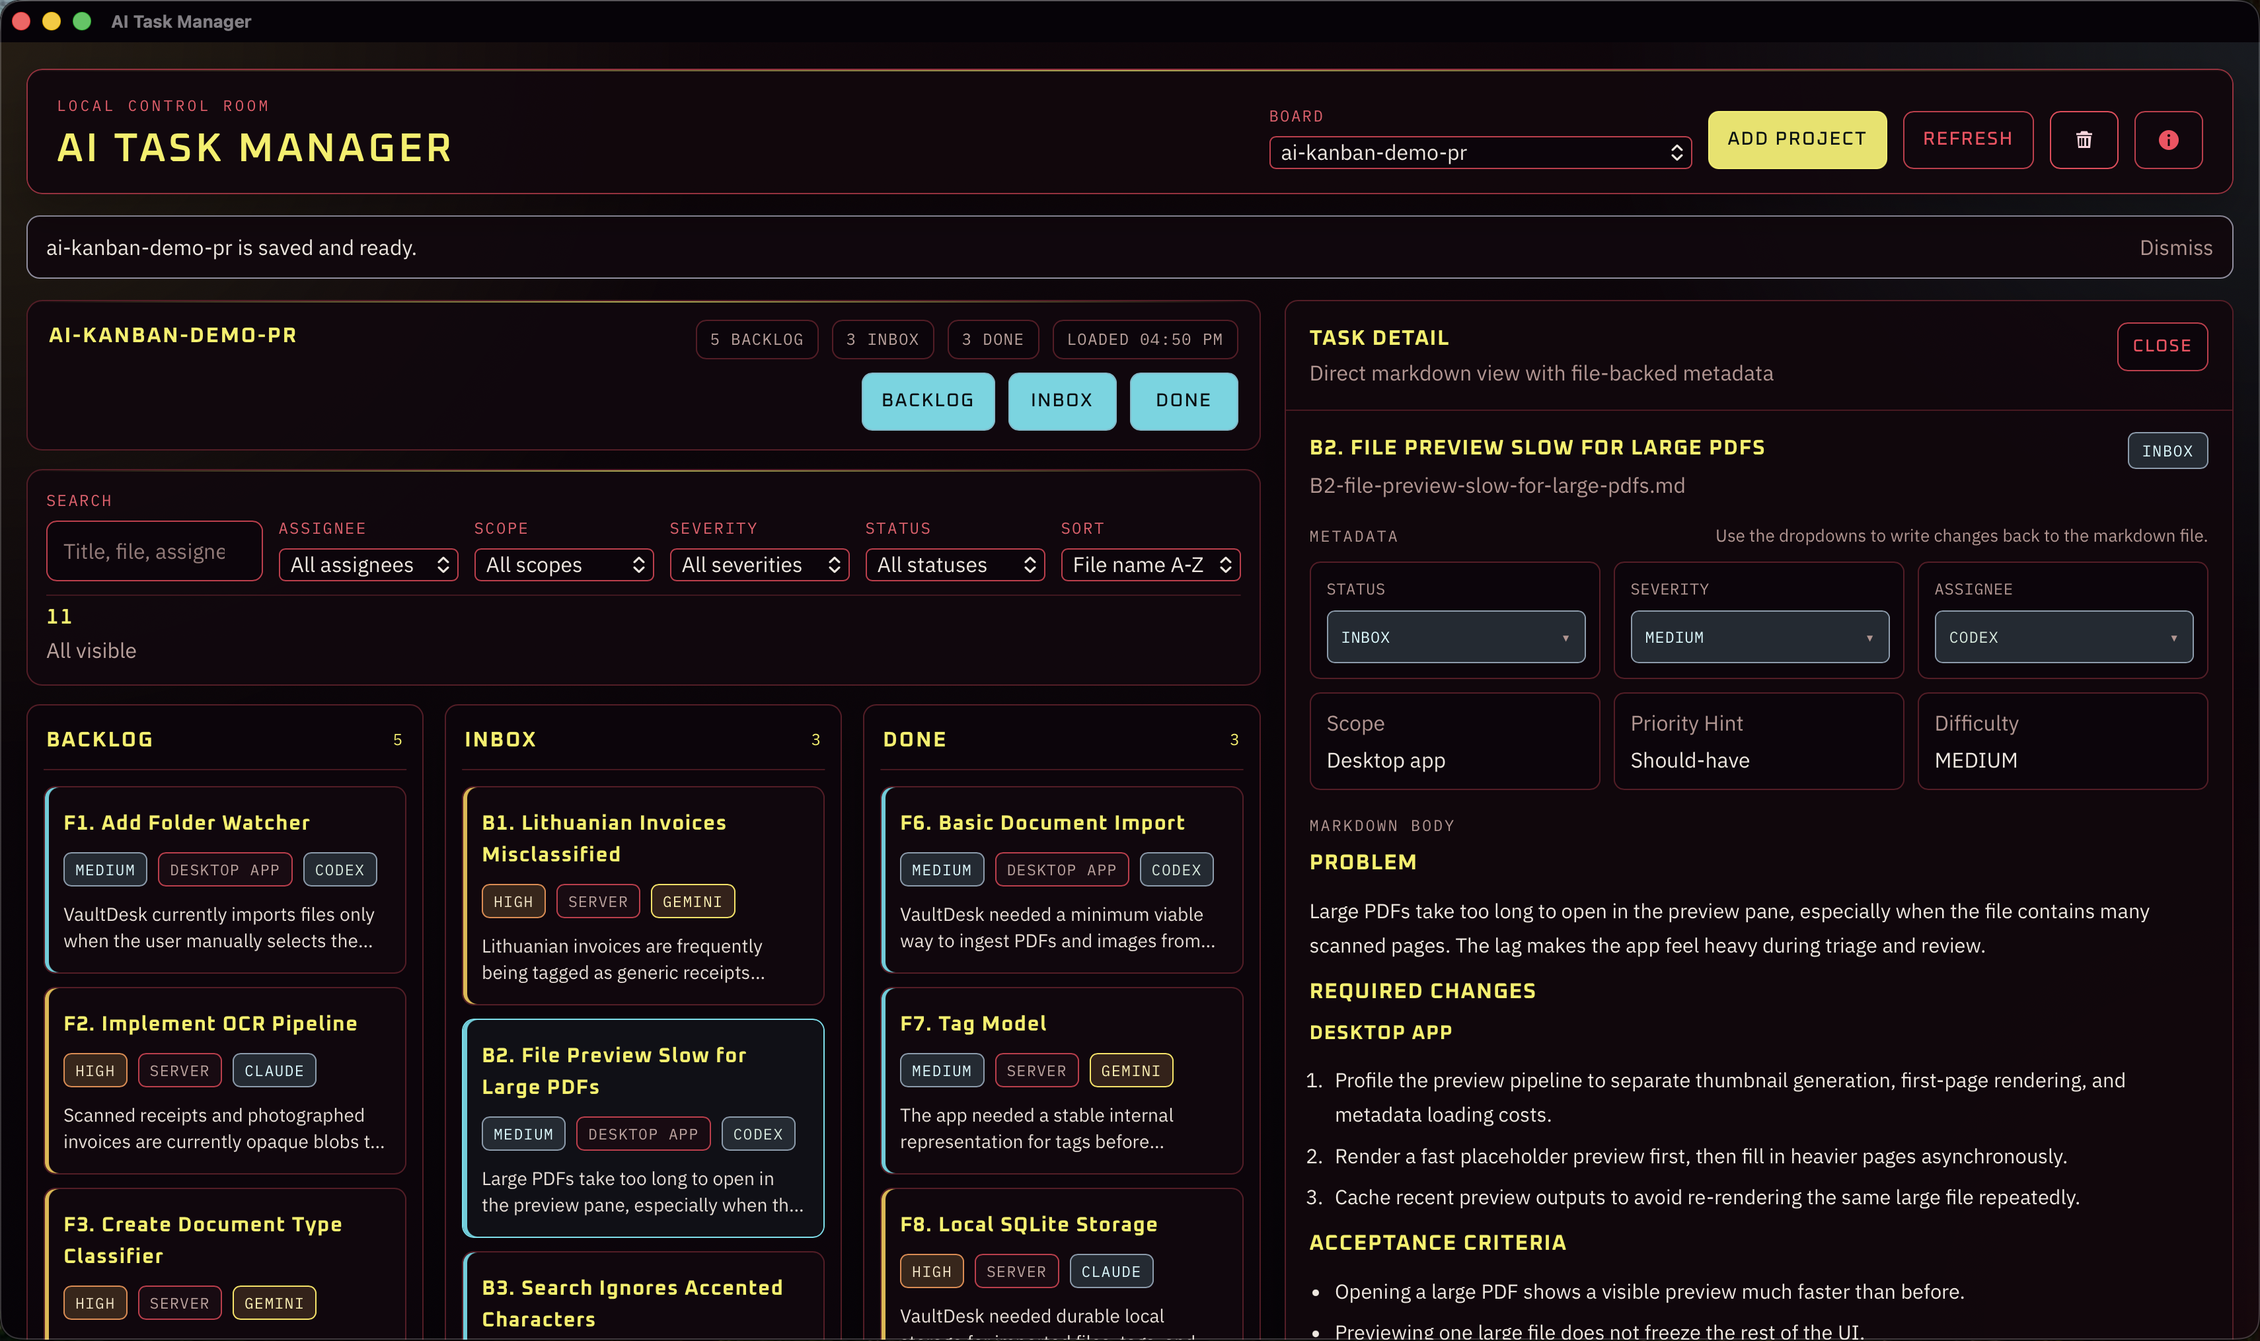
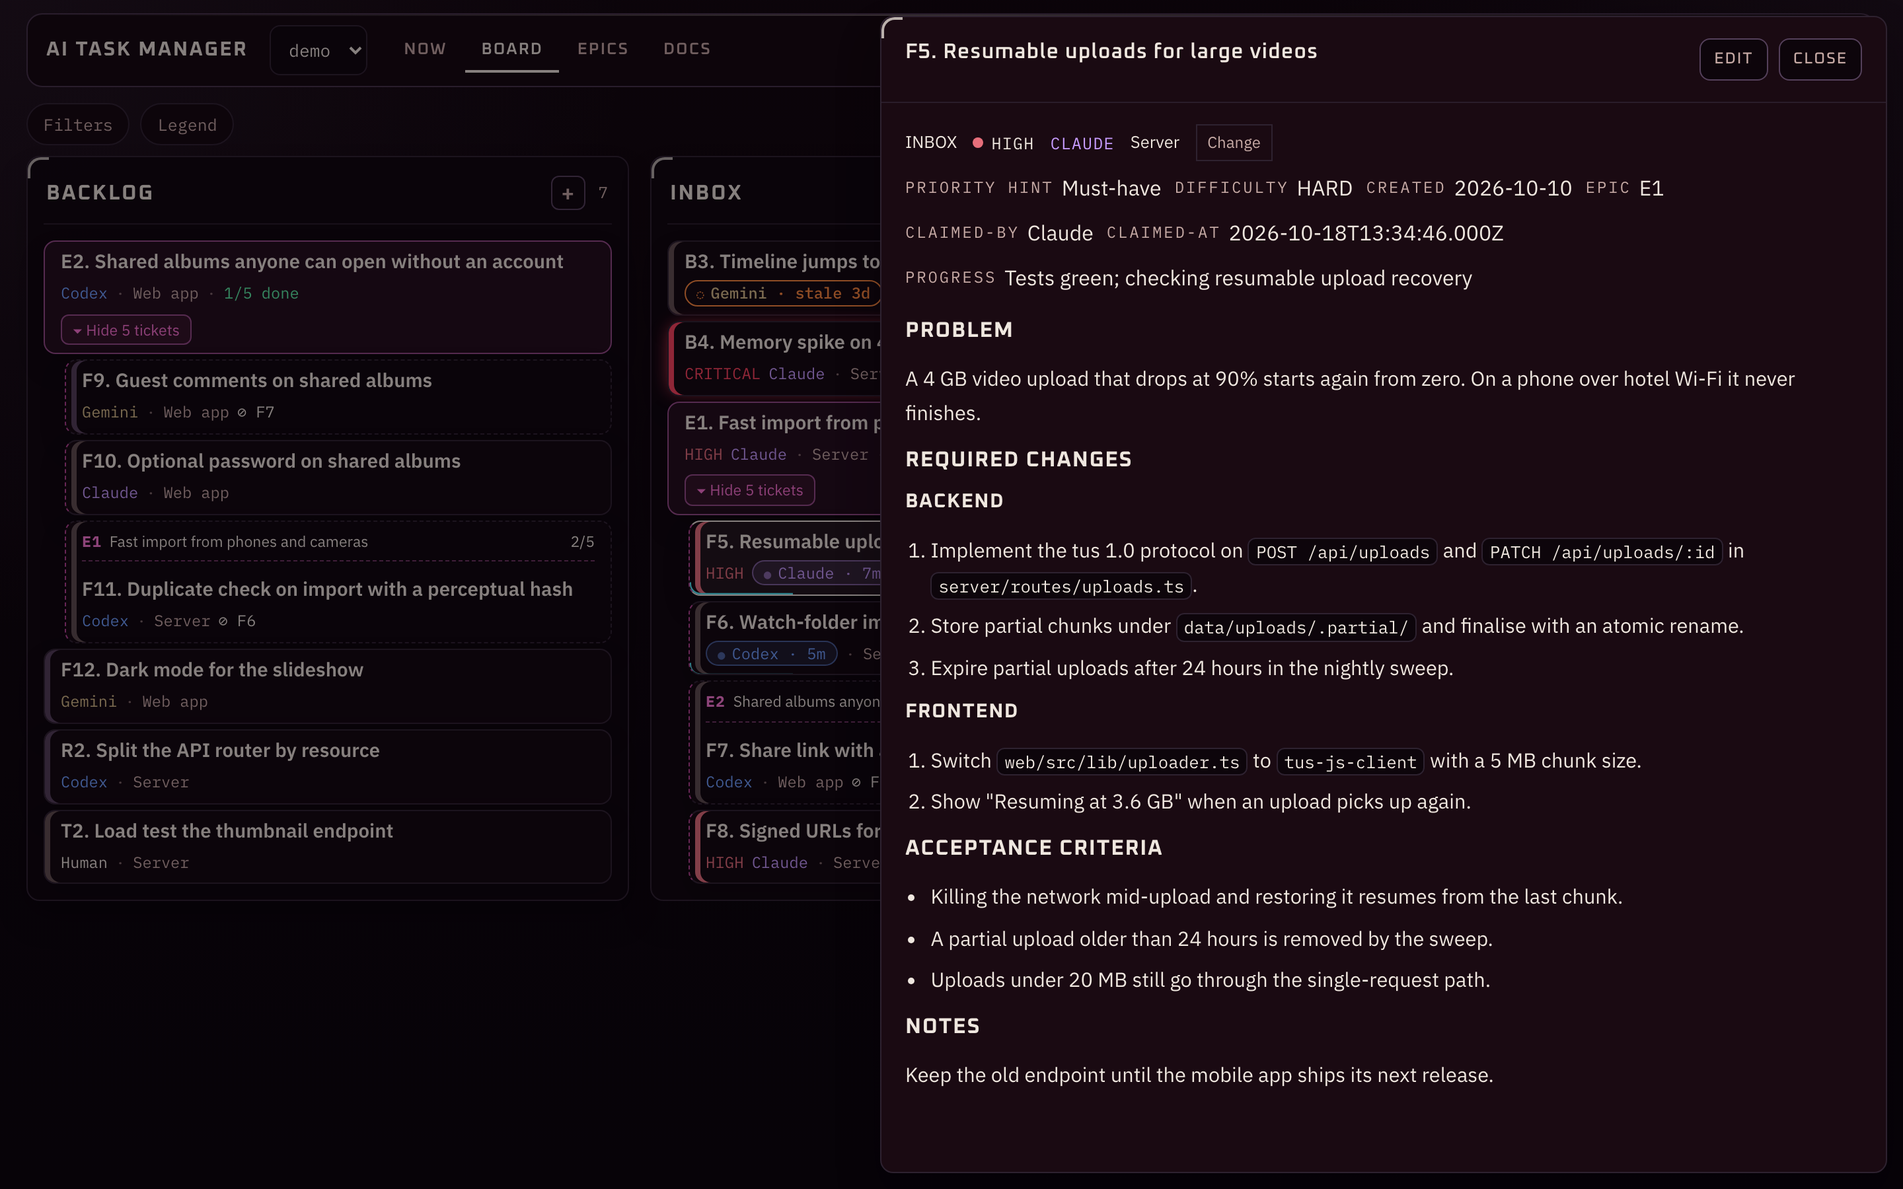
Align GitHub showcase with current GitLab project

diff --git a/README.md b/README.md
@@ -1,14 +1,64 @@
 # AI Task Manager
 
-> 🦊 **Source, issues, and releases live on [GitLab](https://gitlab.com/arturnmk/ai-task-manager).** This page is a showcase.
+> **Source, issues, and releases live on [GitLab](https://gitlab.com/technikatsu/ai-task-manager).** This repository is a showcase. Build and server commands below run from a [GitLab source checkout](https://gitlab.com/technikatsu/ai-task-manager).
 
-Local-first board app for `ai-agent-workflow` markdown tasks.
+A desktop or self-hosted browser kanban board for the markdown tickets your AI coding agents leave behind.
 
-AI Task Manager reads task files directly from a project folder and gives you a desktop or browser board over `backlog`, `inbox`, and `done`. It is built for AI-first workflows where agents such as Claude, Codex, Gemini, Copilot, or a human operator share the same markdown tickets instead of using a separate SaaS tracker.
+You point it at a project folder. It walks `ai-agent-workflow/backlog/`, `inbox/`, and `done/`, parses every `.md` file it finds, and renders the result as a kanban board. Claude, Codex, Gemini, Copilot, your favourite local model — they all write tickets into the same folder. You read, drag, edit, or reassign from the board. They pick up where they left off.
 
-Built for the engineer whose last ticketing tool drained the joy out of every Tuesday. A command center for AI-first work — your agents create and execute, you set scope and stay oriented. Kanban-flavoured because the vocabulary is useful.
+Built for the engineer whose last ticketing tool drained the joy out of every Tuesday. The agents create and execute; you set scope and stay oriented. Kanban-flavoured because the vocabulary is useful.
 
 ![AI Task Manager demo](./img/demo.png)
+
+> **Upgrading from v1.x?** v2.0 has breaking changes for agent loops and scripts: `aiboard next` is gone, in a git repo `aiboard move … done` needs a commit naming the ticket, and agents now take `backlog/` work without waiting for you. Update the app, the CLI and your installed skills together. See [UPGRADING.md](https://gitlab.com/technikatsu/ai-task-manager/-/blob/main/UPGRADING.md).
+
+## Install
+
+Preferred runtime:
+- macOS desktop app (Apple silicon, macOS 11 or later) from the [GitLab releases page](https://gitlab.com/technikatsu/ai-task-manager/-/releases)
+
+Linux and Windows: build from source for now (see [Build From Source](#build-from-source) below). Pre-built binaries are macOS-only at the moment.
+
+### First-time launch on macOS
+
+The release `.app` isn't notarized, so macOS Gatekeeper will say it's "damaged" or from an "unidentified developer" the first time you double-click it. Your machine isn't doing anything wrong; that's the default for unsigned apps. Two ways to get past it:
+
+```bash
+xattr -dr com.apple.quarantine "/Applications/AI Task Manager.app"
+```
+
+Or right-click the `.app` → **Open** → **Open**. After that, regular double-clicking works forever.
+
+Local development:
+
+```bash
+npm install
+npm run tauri:dev
+```
+
+## Host on your local server
+
+Run the GUI beside the Markdown files your agents manage, then open it from your
+Mac or phone. From a source checkout on the server (Node.js 22.12+):
+
+```bash
+npm ci
+npm run build
+npm run serve -- --scan /srv/projects --host 0.0.0.0 --port 4400
+```
+
+Open `http://SERVER-LAN-IP:4400` in your browser. One server covers all your
+projects: `--scan` serves every project with a board under that folder, and a
+new one shows up on the next page load, no restart. `--root` adds a single
+project from elsewhere; both flags repeat. The browser has
+full ticket controls and automatically refreshes agent changes. No login or
+browser folder picker is required. Everyone who can reach the service can edit
+its boards, so use a trusted LAN/VPN. It also doesn't check the `Host` header yet, so a malicious website opened by someone on that network could reach the server through DNS rebinding; keep it off networks where people browse the open web, or put it behind a reverse proxy that pins the host name.
+
+See [deployment instructions](https://gitlab.com/technikatsu/ai-task-manager/-/blob/main/deployment/README.md) for systemd, Docker,
+permissions and simultaneous-edit behavior. The standalone `aiboard` CLI package
+does not include this server; run it from the full source checkout. After a
+rebuild, the server serves the new app on the next request; no restart needed.
 
 ## Why This Exists
 
@@ -17,6 +67,8 @@ Starting a project with AI is easy. Day one is great — you have an agent, a fr
 Day thirty is a different story. You've been talking to Claude, Codex, Gemini, and yourself for weeks, and there are decisions in the codebase you can't quite trace back to anyone (although you suspect it was you, last Wednesday, around 1am). Half the work-in-progress lives in chat windows you've already closed, while the planning sits in your head where it helps nobody, including future-you.
 
 I built this board for that Tuesday. When you point it at a project folder, it reads the same markdown files the agents are already touching, so you get a thing to actually look at: three columns, real cards, a detail pane. Your filesystem is the database, since the app's whole job is to render what's already in there. Uninstall the board tomorrow and your tickets will still be sitting in the folder, exactly the way the agent left them.
+
+There are other tools in this space that store tasks in a JSON blob and let your agent talk to them through an IDE plugin. This is the opposite shape: every ticket is its own markdown file, you can `cat` one without the app, you can `git diff` what the agent changed, you can read your backlog on a server that has no GUI at all. The board exists because reading 80 markdown files in `inbox/` is faster as a column than as `ls`. The files are the truth.
 
 ## How To Use It
 
@@ -31,36 +83,155 @@ When you open the app on a project that doesn't yet have `ai-agent-workflow/`, y
 
 ## Autonomous Loops
 
-The `inbox/` vs `backlog/` split is also the contract for set-and-forget agent runs. A scheduled agent (a cron job, a watchdog, a Codex Automation, an `@autonomous` skill, a `git push`-triggered CI agent — pick your flavour) can safely chew through `inbox/`, work the tickets, and move them to `done/` while you sleep. `backlog/` stays as the human-curated next-up list it shouldn't touch.
+The board is also the contract for set-and-forget agent runs. A scheduled agent (a cron job, a watchdog, a Codex Automation, an `@autonomous` skill, a `git push`-triggered CI agent — pick your flavour) works through `inbox/` and then `backlog/`, claims each ticket, and moves it to `done/` while you sleep. You mostly watch: to hold a ticket back, assign it to `Human`.
 
-So the loop you build can be as small as:
+With the [`aiboard` CLI](https://gitlab.com/technikatsu/ai-task-manager/-/blob/main/cli/README.md), the mechanical parts are three lines:
 
-1. Read `ai-agent-workflow/inbox/`.
-2. Pick the highest-severity ticket assigned to me (or unassigned).
-3. Do the work the ticket specifies.
-4. Write verification notes under `## Notes`, flip `Status` to `DONE`, move to `done/`.
-5. Sleep until next run.
+```bash
+export AIBOARD_AGENT=Codex                            # who the activity log should name
+# the agent reads inbox/, then backlog/, and picks with context:
+aiboard claim B12 || exit 0                          # exit 3 = another loop has it
+# ...work the ticket, write verification notes under ## Notes...
+git commit -am "Fix auth (B12)"                      # name the ticket in the commit
+aiboard move B12 done                                # Status, Completed:, Commit:, claim — all handled
+```
+
+Deliberately, nothing here picks the ticket *for* the agent. A tool that ranks the inbox by severity gives a confident answer that can't see which ticket unblocks three others, or that last month's `CRITICAL` has stopped being one. Claiming is the part worth mechanising: it stops two concurrent loops taking the same ticket, and a claim older than two hours is treated as abandoned so a crashed run never wedges work.
 
 The board you've been looking at is the same board the loop sees. Open the desktop app at any time to inspect what the autonomous agent has been up to, redirect with the Assignee field, or move tickets between columns. The files are the source of truth either way.
 
+## Living Documentation
+
+Tickets cover *changes*. Current state belongs in living docs.
+
+The companion skill ([board-setup](https://gitlab.com/technikatsu/ai-task-manager/-/blob/main/skills/board-setup/SKILL.md)) also scaffolds a `documentation/` folder when the project actually warrants it — `CURRENT_STATE.md`, `ARCHITECTURE.md`, `SECURITY.md`, `DEPLOYMENT.md`, `DEVELOPMENT_GUIDE.md`, `ROADMAP.md`. Point-in-time things like audits or baselines live in `documentation/archive/` with a date in the filename, and they get left alone after that.
+
+Both humans and AI agents read these — humans when they pick a project up after a break, agents when they reload after a context reset. The agent does the writing. Your job is to read it when you've been away too long.
+
+Docs only stay true if they stay read, so each canonical doc is kept a **core**: the current truth in about a hundred lines, with depth pushed into linked topic files beside it (`ARCHITECTURE-data-flow.md` can be as long as it likes). `aiboard` keeps the habit honest — `doctor` flags a core that outgrows the cap, and every move to `done/` prints how stale each doc is, at exactly the moment "update the docs with the ticket" applies.
+
 ## Features
 
-- Multi-project board picker
-- Three workflow columns: `backlog`, `inbox`, `done`
-- Markdown detail view
-- Filters for assignee, scope, severity, and status
-- Drag/drop or metadata-driven status changes
-- Tauri desktop app with a web fallback for development
+- **Now** — the front page for watching: Working / Ready / Blocked lanes with a HUD that counts them; live cards and rows carry a short cyan border tracer (static under reduced motion), and a claim that's gone quiet turns orange and names who holds it
+- **Progress** — an agent posts a one-line status (`aiboard claim F42 --note "tests green"`); it shows on Now and in the activity panel and keeps the claim live
+- **Since you last looked** — what happened while you were away ("Codex moved F12 to done, 2h ago"), runs folded into one line, with a per-browser marker and an "N new" count in the top bar
+- **Board** — `backlog` / `inbox` / `done` with drag-and-drop anywhere in a column; filters fold into one control with removable chips; the ticket opens in an opaque read-first drawer with metadata changes behind Change; Compact and Comfortable density
+- **Epics** — a feature's tickets carry `Epic: E1`; the Epics tab shows each outcome with its progress and narrows the Board to it in one click
+- **Docs** — the living docs on their own page: the list, the doc at reading width, an outline that follows you, and a one-click prompt to have your agent write any canonical doc that's missing
+- Full-text search across tickets *and* docs, with the matching line highlighted
+- Cards wear their state: a severity edge and visible words for high and critical, a colour per agent, a live or stale claim pill, and ⊘ naming unmet `Depends:` links
+- Every change leaves a trail in `activity.jsonl`; moves to done stamp the delivering commit
+- Per-board `board.json`: your own Scope values, colours for your agents, an advisory WIP limit on `inbox/`
+- The board refreshes itself, including edits an agent makes to a ticket in place; file-name sorting puts B2 before B10
+- Many projects: scan a folder to add every project with a board (new ones appear at the next launch), and rename any board in the app without touching its folder. Self-hosted, one server covers a whole folder of projects (`--scan`), new ones included, no restart
+- Runs as a macOS desktop app (Tauri), self-hosted in any browser, or as a Chromium local-file shell for development
 
-## Get It
+## Required Board Layout
 
-- **macOS app:** [GitLab releases](https://gitlab.com/arturnmk/ai-task-manager/-/releases) — first launch needs the [Gatekeeper workaround](https://gitlab.com/arturnmk/ai-task-manager#first-time-launch-on-macos), since the build isn't notarized
-- **Linux / Windows:** Pre-built binaries are macOS-only for now — [build from source on GitLab](https://gitlab.com/arturnmk/ai-task-manager#build-from-source)
-- **The reusable agent skill (`ai-agent-workflow`):** [SKILL.md on GitLab](https://gitlab.com/arturnmk/ai-task-manager/-/blob/main/SKILL.md)
-- **Bugs & questions:** [Issues on GitLab](https://gitlab.com/arturnmk/ai-task-manager/-/issues) — I check there, not here
+```text
+project-root/
+└── ai-agent-workflow/
+    ├── backlog/
+    ├── inbox/
+    ├── done/
+    │   └── archive/         # optional — `aiboard archive` files old tickets here by quarter
+    └── documentation/       # optional — living docs, plus documentation/archive/ for audits
+```
+
+Task files are plain markdown. The app reads and updates them directly.
+
+## Build From Source
+
+```bash
+npm install
+npm run tauri:dev
+```
+
+Web development shell:
+
+```bash
+npm run dev
+```
+
+The local-file web development shell needs a Chromium-based browser (Chrome, Edge, Brave, Arc, etc.) — the board reads your local files via the File System Access API, which Firefox and Safari don't ship. For files on a server and browsers without the folder API, use [server mode](#host-on-your-local-server). The desktop build uses Tauri filesystem access.
+
+Production build:
+
+```bash
+npm run tauri:build
+```
+
+Verification:
+
+```bash
+npm run check
+npm test
+```
+
+## The Agent Skills
+
+Three core skills cover the workflow's life cycle, with a Nightshift companion for unattended board campaigns. Each is a single markdown file you can install into other projects:
+
+| Skill | Moment | File |
+|---|---|---|
+| **shape** | An idea, before it's work — interrogate it, size it, turn it into tickets | [skills/shape/SKILL.md](https://gitlab.com/technikatsu/ai-task-manager/-/blob/main/skills/shape/SKILL.md) |
+| **board-setup** | A project without a board — scaffold folders, README, docs, first tickets | [skills/board-setup/SKILL.md](https://gitlab.com/technikatsu/ai-task-manager/-/blob/main/skills/board-setup/SKILL.md) |
+| **ai-agent-workflow** | Every session after that — the ticket contract, picking work, moving to done, re-orienting after a context reset | [skills/ai-agent-workflow/SKILL.md](https://gitlab.com/technikatsu/ai-task-manager/-/blob/main/skills/ai-agent-workflow/SKILL.md) |
+| **ai-agent-workflow-nightshift** | Authorized unattended Nightshift campaigns: board discovery, autonomous ticket lifecycle, local-first progress and bounded corrections | [skills/ai-agent-workflow-nightshift/SKILL.md](https://gitlab.com/technikatsu/ai-task-manager/-/blob/main/skills/ai-agent-workflow-nightshift/SKILL.md) |
+
+The three core skills stand on their own. The board app is optional (the skills just write markdown), and so is the CLI — every CLI step has a documented manual fallback.
+
+The Nightshift companion shares the base ticket contract; keep it beside `ai-agent-workflow` when packaging it. It uses an existing board, routes no-board briefs to internal Nightshift planning, and never creates a board automatically. It is an integration contract for campaign runtime support, not a runtime feature installer; deploy it with the supported campaign adapter once available.
+
+### Claude Code
+
+Skills live in a folder named after the skill. Per-project:
+
+```bash
+base=https://gitlab.com/technikatsu/ai-task-manager/-/raw/main
+mkdir -p .claude/skills/{ai-agent-workflow,board-setup,shape}
+curl -fsSL "$base/skills/ai-agent-workflow/SKILL.md" -o .claude/skills/ai-agent-workflow/SKILL.md
+curl -fsSL "$base/skills/board-setup/SKILL.md"     -o .claude/skills/board-setup/SKILL.md
+curl -fsSL "$base/skills/shape/SKILL.md"           -o .claude/skills/shape/SKILL.md
+```
+
+Or once for every project, swapping `.claude` for `~/.claude`. Claude Code picks them up automatically and loads whichever matches the task — no wiring needed. Installing only `ai-agent-workflow` also works; it points to the others when a task needs them.
+
+### Codex
+
+Same layout, different root — `~/.codex/skills/<name>/SKILL.md`. Run the Claude Code commands above with `~/.codex` in place of `.claude`.
+
+### Cursor and other agents
+
+Agents without a skill system read a conventions file instead. Drop the skill files in the repo and point at them, e.g. in `AGENTS.md`:
+
+```markdown
+## Task tracking
+This project tracks work as markdown tickets in `ai-agent-workflow/`.
+Read `skills/ai-agent-workflow/SKILL.md` before creating, picking up, or completing a ticket, and follow it.
+Shaping ideas into tickets: `skills/shape/SKILL.md`. First-time setup: `skills/board-setup/SKILL.md`.
+```
+
+Pasting the contents inline works too — plain markdown, no tool-specific syntax.
+
+### Then start it
+
+Point your agent at a project and ask it to *"set up the ai-agent-workflow"*. It scaffolds the folders, writes the workflow README, and creates tickets for anything real it already knows about. From then on, ask for work in tickets rather than in chat.
+
+### The `aiboard` CLI (optional)
+
+[cli/README.md](https://gitlab.com/technikatsu/ai-task-manager/-/blob/main/cli/README.md) — a companion command-line tool for the same board, aimed at agents: it allocates ticket IDs, rewrites `Status` on moves, stamps `Created:`/`Completed:` dates and the delivering `Commit:`, claims tickets so concurrent loops don't collide, logs every write for the activity panel, archives long-finished work, warns when living docs go stale, and validates the whole contract. Skipping it costs you accurate dates and a linter, nothing more.
+
+One-command install from the latest release:
+
+```bash
+npm install -g https://gitlab.com/technikatsu/ai-task-manager/-/releases/permalink/latest/downloads/aiboard.tgz
+```
 
 ## License
 
-MIT with an Attribution Addendum. See [LICENSE on GitLab](https://gitlab.com/arturnmk/ai-task-manager/-/blob/main/LICENSE).
+MIT with an Attribution Addendum. See [LICENSE](https://gitlab.com/technikatsu/ai-task-manager/-/blob/main/LICENSE).
 
 Free to use, modify, redistribute, and ship commercially. The one extra requirement: any fork or derivative that exposes a UI or documentation must keep a visible "Originally created by Technikatsu" attribution.
+
+Made by [Technikatsu](https://technikatsu.com).
